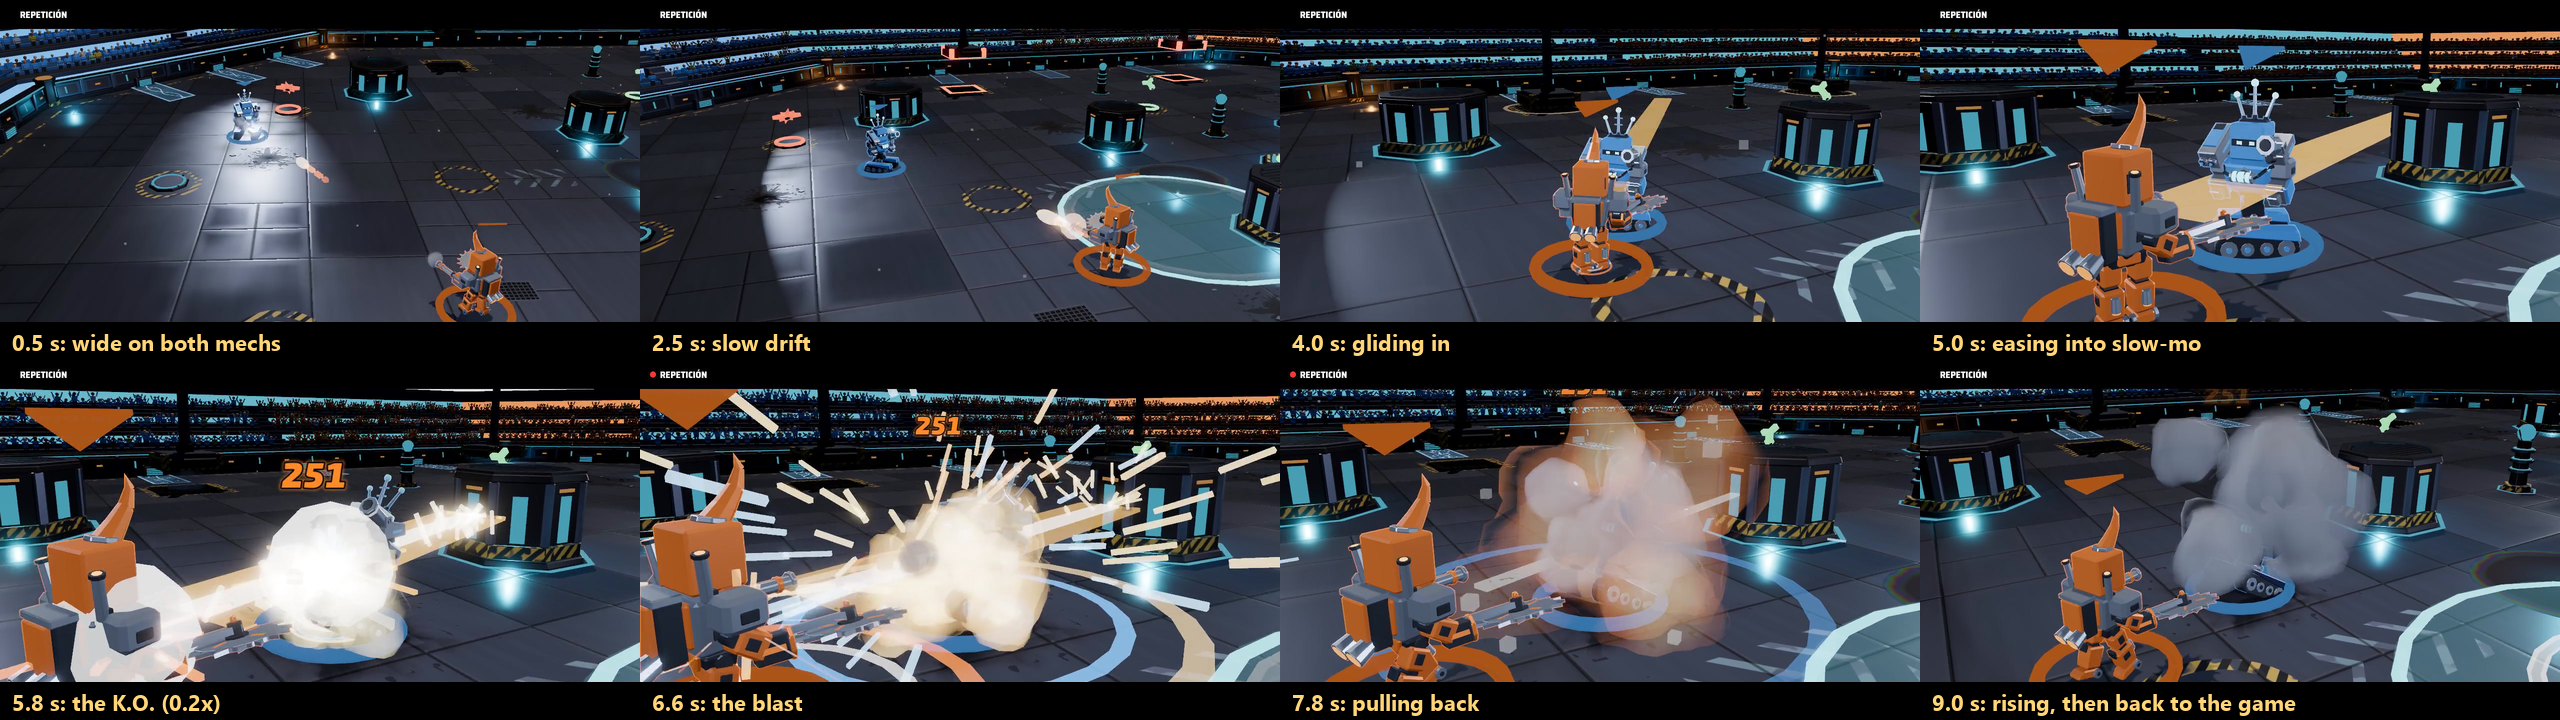
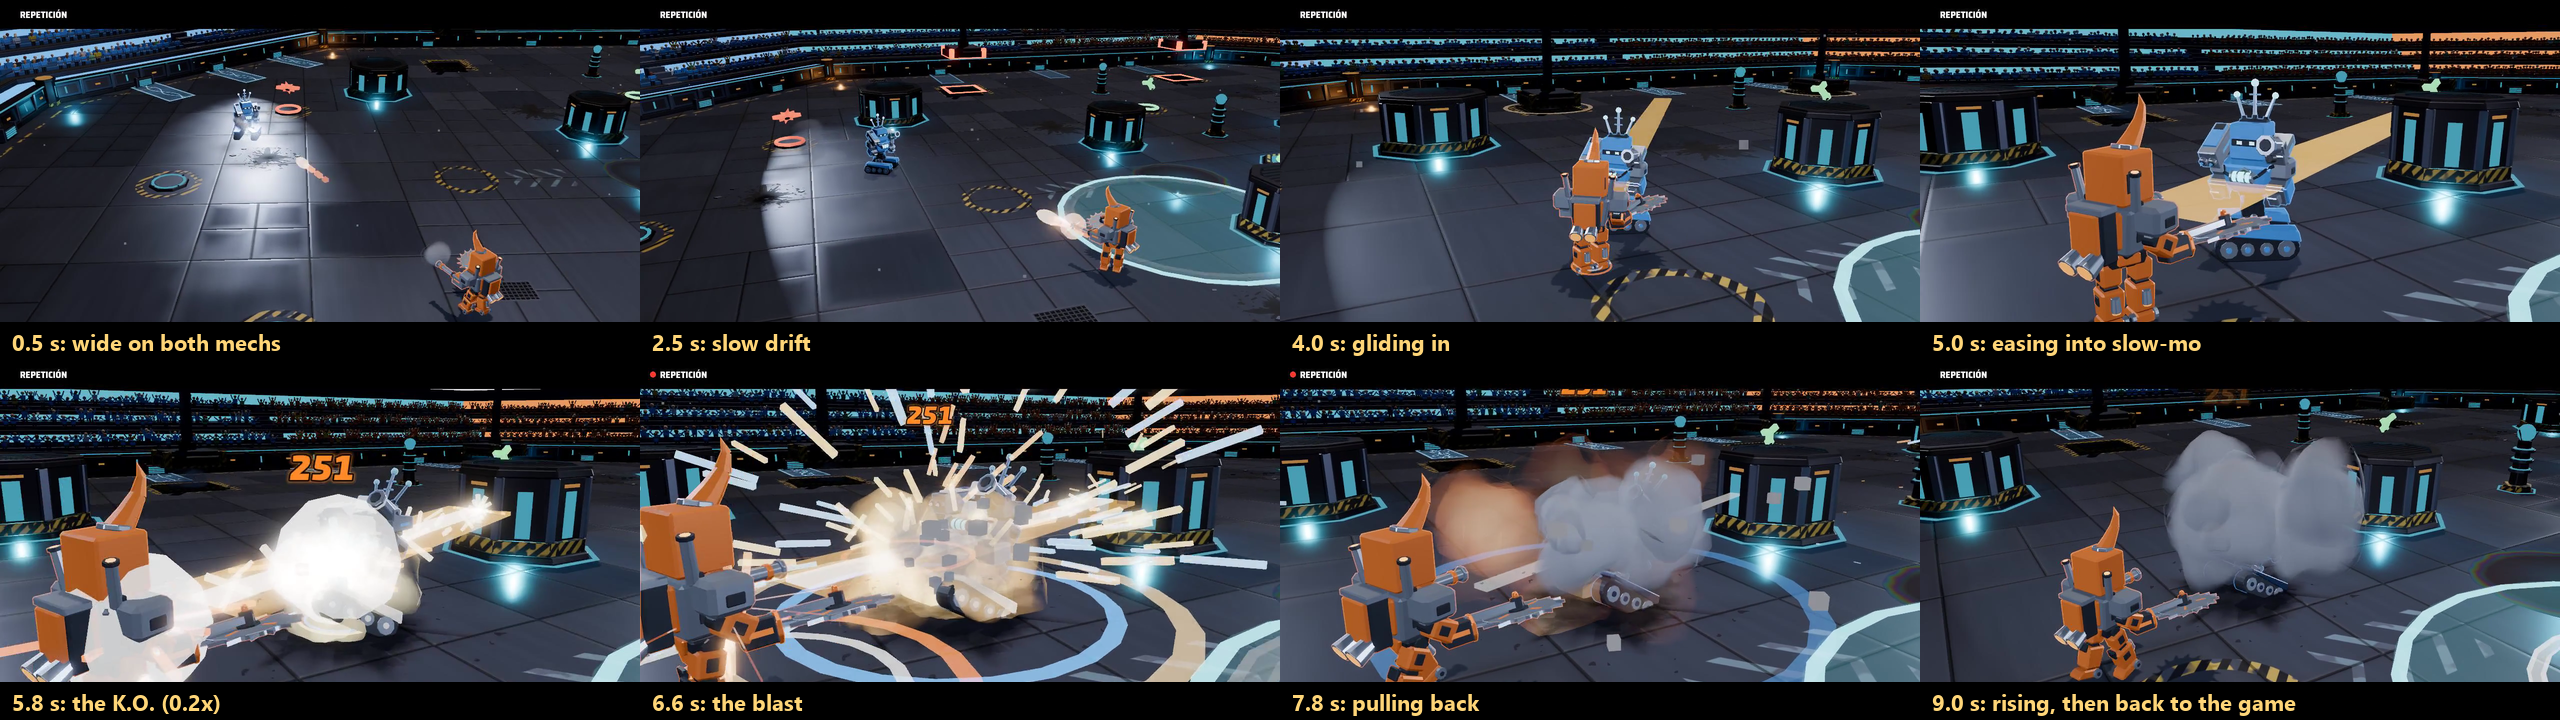
feat(godot): hide the team ring, arrow and aim reticle during the kill cam
The overhaul's team markers float over each mech; in the replay's
close-ups the arrow was a big triangle across the top of the frame.
view.replaying hides the ring, the arrow and the aim reticle while the
kill cam plays (it replaces main.gd poking the reticle after sync). The
damage numbers stay.

Test: the match-flow test checks they hide in the replay and come back
after it. Evidence sheet re-shot.

diff --git a/CLAUDE.md b/CLAUDE.md
@@ -93,8 +93,9 @@ $P = "$R\godot"
   `physics_ticks_per_second` to 60 × speed; physics interpolation keeps the mechs smooth and the
   camera moves in `_process` on real time (`get_global_transform_interpolated`, its interpolation
   off).
-  HUD: only black bars, a blinking ● REPLAY, a progress line and a skip hint (`kcReplay`, `kcSkip`);
-  Enter, click or A skip after `grace` ticks (mashing doesn't); a rewind swoosh (`ui_rewind`) starts
+  HUD: only black bars, a blinking ● REPLAY, a progress line and a skip hint (`kcReplay`, `kcSkip`),
+  plus the damage numbers; the aim reticle and the team ring and arrow hide (`view.replaying`;
+  Victor 2026-10-28: "Hide them"). Enter, click or A skip after `grace` ticks (mashing doesn't); a rewind swoosh (`ui_rewind`) starts
   it. The end (or a skip) steps the live state through the rest of the K.O. phase, so the next round
   starts at once. Look flag: `--replay=<n>` fast-forwards an autopilot match to its first K.O. and
   plays the kill cam; add `--shot=<abs>.png` to save its n-th step. Evidence (one replay, 8 moments):
